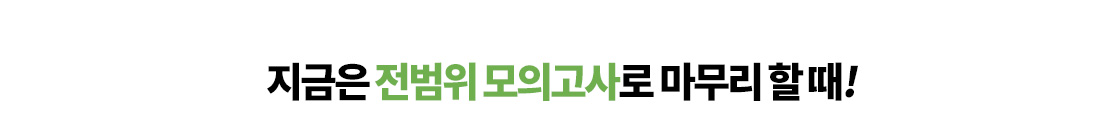
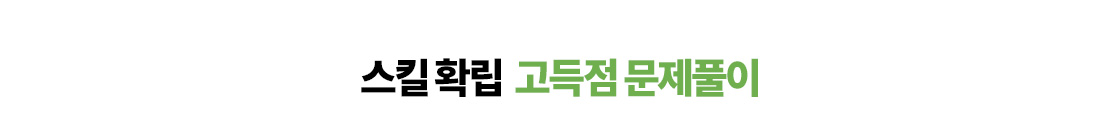
공무원 메인

Changed region(s): [[0.2188, 0.4, 0.7812, 0.7429]]

diff --git a/views/willbes/pc/site/main_2003_3028.blade.php b/views/willbes/pc/site/main_2003_3028.blade.php
@@ -25,11 +25,11 @@
         <div class="Section ProfBox">
             <div class="widthAuto">
                 <ul class="PBtab NSK">
-                    <li><a href="#tab01">현재 준비중인 수험생이라면</a></li>
-                    <li><a href="#tab02">지금 시작하는 초시생이라면</a></li>
+                    <li><a href="#tab01">빠르고 정확한 문제풀이를 원한다면</a></li>
+                    <li><a href="#tab02">체계적인 이론학습을 원한다면</a></li>
                 </ul>
                 <div id="tab01">
-                    <img src="{{ img_url('gosi_tech/visual/visual_tit01_01.jpg') }}" alt="지금은 전범위 모의고사로 마무리 할 때!">
+                    <img src="{{ img_url('gosi_tech/visual/visual_tit01_01.jpg') }}" alt="고득점 문제풀이 스킬 확립">
                     <ul class="PBcts">
                         @for($i=1; $i<=4; $i++)
                             @if(empty($data['arr_main_banner']['메인_미들'.$i]) === false)
@@ -43,7 +43,7 @@
                     </ul>
                 </div>
                 <div id="tab02">
-                    <img src="{{ img_url('gosi_tech/visual/visual_tit01_02.jpg') }}" alt="지금은 전범위 모의고사로 마무리 할 때!">
+                    <img src="{{ img_url('gosi_tech/visual/visual_tit01_02.jpg') }}" alt="점수의 기반을 형성하는 이론정립">
                     <ul class="PBcts">
                         @for($i=5; $i<=8; $i++)
                             @if(empty($data['arr_main_banner']['메인_미들'.$i]) === false)

diff --git a/views/willbes/pc/site/main_2003_3035.blade.php b/views/willbes/pc/site/main_2003_3035.blade.php
@@ -25,8 +25,8 @@
         <div class="Section ProfBox">
             <div class="widthAuto">
                 <ul class="PBtab NSK">
-                    <li><a href="#tab01">현재 준비중인 수험생이라면</a></li>
-                    <li><a href="#tab02">지금 시작하는 초시생이라면</a></li>
+                    <li><a href="#tab01">1순환, 큰 틀에서 흐름을 파악하라!</a></li>
+                    <li><a href="#tab02">예비순환, 동행의 첫걸음</a></li>
                 </ul>
                 <div id="tab01">
                     <img src="{{ img_url('gosi_law/visual/visual_tit01_01.jpg') }}" alt="지금은 전범위 모의고사로 마무리 할 때!">
